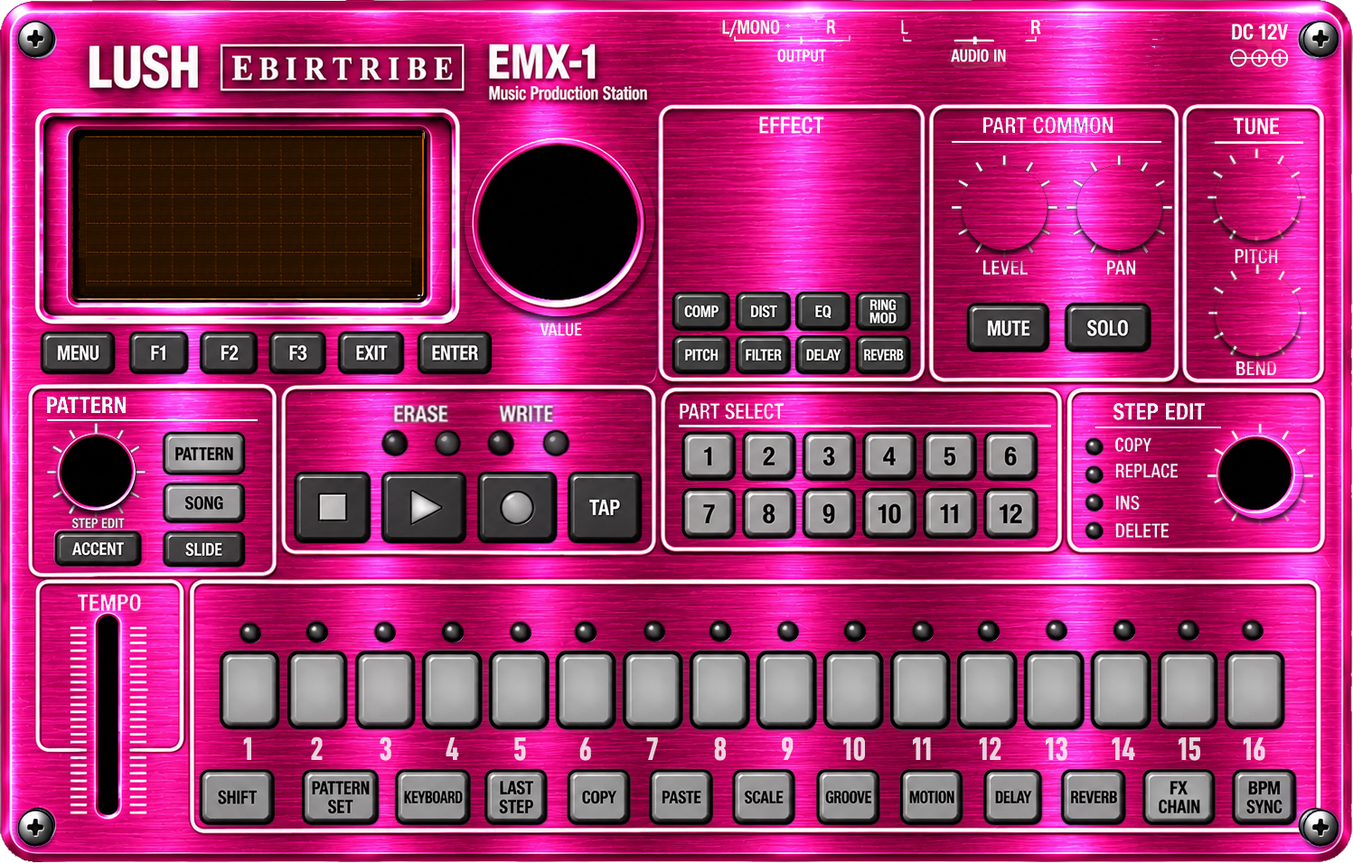
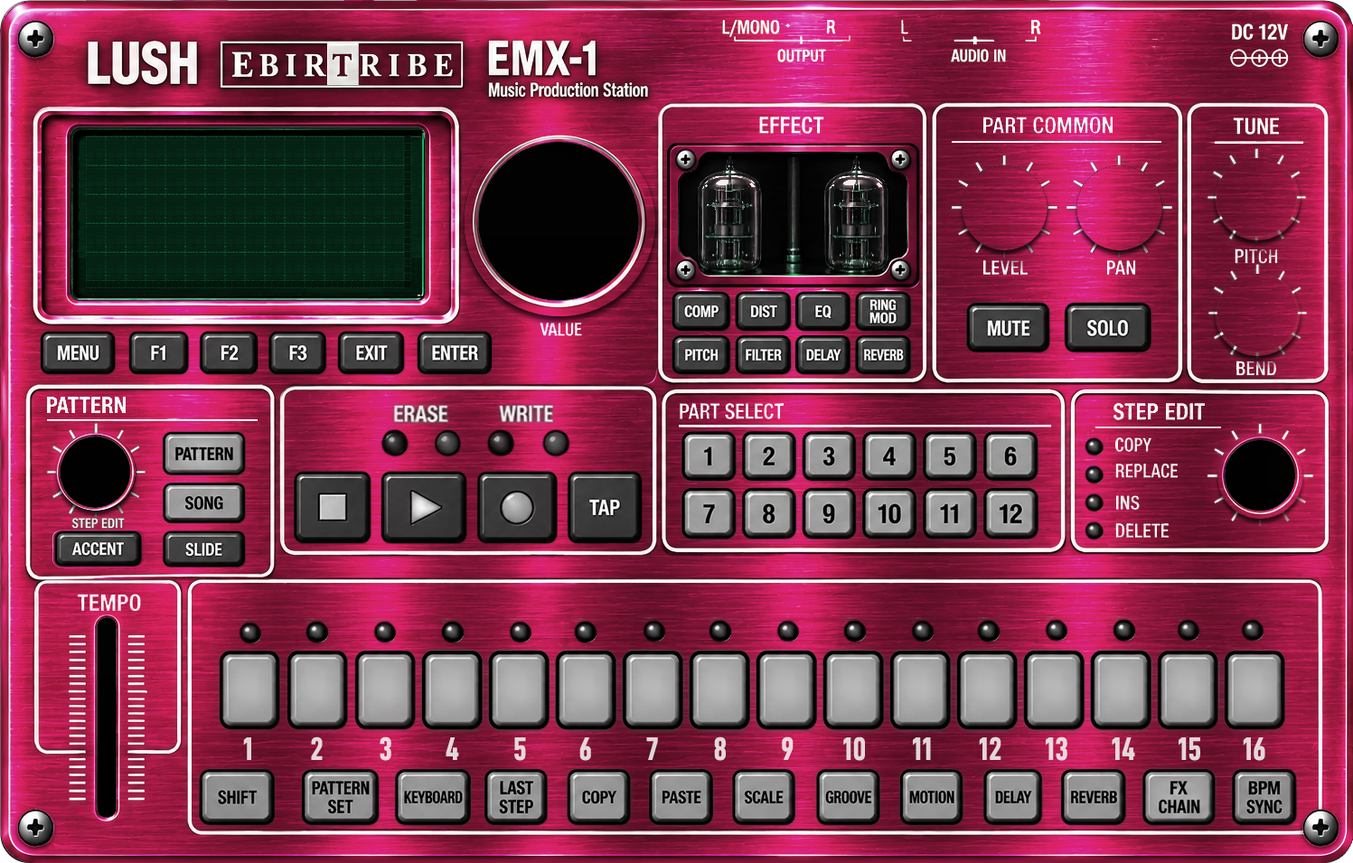
Refresh deck graphics and widget rendering
Update deck and control assets, adjust interface element positions, and add sprite-based button and interpolated knob rendering. Also correct the missing-image error message and update LCD and valve rendering.

diff --git a/interface.py b/interface.py
@@ -27,30 +27,30 @@ class Leds:
     STEP_DELETE         = 0x17    
     def get():
         return {
-            Leds.STEP_01        : Led('STEP_01'     , 264+(74 * 0x00), 687,  32,  32, LedTypes.TYPE_BIG    ),
-            Leds.STEP_02        : Led('STEP_02'     , 264+(74 * 0x01), 687,  32,  32, LedTypes.TYPE_BIG    ),
-            Leds.STEP_03        : Led('STEP_03'     , 264+(74 * 0x02), 687,  32,  32, LedTypes.TYPE_BIG    ),
-            Leds.STEP_04        : Led('STEP_04'     , 264+(74 * 0x03), 687,  32,  32, LedTypes.TYPE_BIG    ),
-            Leds.STEP_05        : Led('STEP_05'     , 264+(74 * 0x04), 687,  32,  32, LedTypes.TYPE_BIG    ),
-            Leds.STEP_06        : Led('STEP_06'     , 264+(74 * 0x05), 687,  32,  32, LedTypes.TYPE_BIG    ),
-            Leds.STEP_07        : Led('STEP_07'     , 264+(74 * 0x06), 687,  32,  32, LedTypes.TYPE_BIG    ),
-            Leds.STEP_08        : Led('STEP_08'     , 264+(74 * 0x07), 687,  32,  32, LedTypes.TYPE_BIG    ),
-            Leds.STEP_09        : Led('STEP_09'     , 264+(74 * 0x08), 687,  32,  32, LedTypes.TYPE_BIG    ),
-            Leds.STEP_10        : Led('STEP_10'     , 264+(74 * 0x09), 687,  32,  32, LedTypes.TYPE_BIG    ),
-            Leds.STEP_11        : Led('STEP_11'     , 264+(74 * 0x0A), 687,  32,  32, LedTypes.TYPE_BIG    ),
-            Leds.STEP_12        : Led('STEP_12'     , 264+(74 * 0x0B), 687,  32,  32, LedTypes.TYPE_BIG    ),
-            Leds.STEP_13        : Led('STEP_13'     , 264+(74 * 0x0C), 687,  32,  32, LedTypes.TYPE_BIG    ),
-            Leds.STEP_14        : Led('STEP_14'     , 264+(74 * 0x0D), 687,  32,  32, LedTypes.TYPE_BIG    ),
-            Leds.STEP_15        : Led('STEP_15'     , 264+(74 * 0x0E), 687,  32,  32, LedTypes.TYPE_BIG    ),
-            Leds.STEP_16        : Led('STEP_16'     , 264+(74 * 0x0F), 687,  32,  32, LedTypes.TYPE_BIG    ),
-            Leds.ERASE_RED      : Led('ERASE_RED'   ,             421, 475,  32,  32, LedTypes.TYPE_HUGE   ),
-            Leds.ERASE_GREEN    : Led('ERASE_GREEN' ,             480, 475,  32,  32, LedTypes.TYPE_HUGE   ),
-            Leds.WRITE_RED      : Led('WRITE_RED'   ,             538, 475,  32,  32, LedTypes.TYPE_HUGE   ),
-            Leds.WRITE_GREEN    : Led('WRITE_GREEN' ,             599, 475,  32,  32, LedTypes.TYPE_HUGE   ),
-            Leds.STEP_COPY      : Led('STEP_COPY'   ,            1200, 484,  24,  24, LedTypes.TYPE_MID    ),
-            Leds.STEP_REPLACE   : Led('STEP_REPLACE',            1200, 515,  24,  24, LedTypes.TYPE_MID    ),
-            Leds.STEP_INSERT    : Led('STEP_INSERT' ,            1200, 545,  24,  24, LedTypes.TYPE_MID    ),
-            Leds.STEP_DELETE    : Led('STEP_DELETE' ,            1200, 577,  24,  24, LedTypes.TYPE_MID    ),
+            Leds.STEP_01        : Led('STEP_01'     , 261+(74 * 0x00), 685,  32,  32, LedTypes.TYPE_BIG    ),
+            Leds.STEP_02        : Led('STEP_02'     , 261+(74 * 0x01), 684,  32,  32, LedTypes.TYPE_BIG    ),
+            Leds.STEP_03        : Led('STEP_03'     , 262+(74 * 0x02), 684,  32,  32, LedTypes.TYPE_BIG    ),
+            Leds.STEP_04        : Led('STEP_04'     , 263+(74 * 0x03), 683,  32,  32, LedTypes.TYPE_BIG    ),
+            Leds.STEP_05        : Led('STEP_05'     , 264+(74 * 0x04), 683,  32,  32, LedTypes.TYPE_BIG    ),
+            Leds.STEP_06        : Led('STEP_06'     , 262+(74 * 0x05), 683,  32,  32, LedTypes.TYPE_BIG    ),
+            Leds.STEP_07        : Led('STEP_07'     , 263+(74 * 0x06), 683,  32,  32, LedTypes.TYPE_BIG    ),
+            Leds.STEP_08        : Led('STEP_08'     , 263+(74 * 0x07), 683,  32,  32, LedTypes.TYPE_BIG    ),
+            Leds.STEP_09        : Led('STEP_09'     , 263+(74 * 0x08), 683,  32,  32, LedTypes.TYPE_BIG    ),
+            Leds.STEP_10        : Led('STEP_10'     , 263+(74 * 0x09), 683,  32,  32, LedTypes.TYPE_BIG    ),
+            Leds.STEP_11        : Led('STEP_11'     , 264+(74 * 0x0A), 683,  32,  32, LedTypes.TYPE_BIG    ),
+            Leds.STEP_12        : Led('STEP_12'     , 264+(74 * 0x0B), 683,  32,  32, LedTypes.TYPE_BIG    ),
+            Leds.STEP_13        : Led('STEP_13'     , 265+(74 * 0x0C), 682,  32,  32, LedTypes.TYPE_BIG    ),
+            Leds.STEP_14        : Led('STEP_14'     , 266+(74 * 0x0D), 682,  32,  32, LedTypes.TYPE_BIG    ),
+            Leds.STEP_15        : Led('STEP_15'     , 264+(74 * 0x0E), 682,  32,  32, LedTypes.TYPE_BIG    ),
+            Leds.STEP_16        : Led('STEP_16'     , 261+(74 * 0x0F), 682,  32,  32, LedTypes.TYPE_BIG    ),
+            Leds.ERASE_RED      : Led('ERASE_RED'   ,             421, 474,  32,  32, LedTypes.TYPE_HUGE   ),
+            Leds.ERASE_GREEN    : Led('ERASE_GREEN' ,             480, 474,  32,  32, LedTypes.TYPE_HUGE   ),
+            Leds.WRITE_RED      : Led('WRITE_RED'   ,             538, 474,  32,  32, LedTypes.TYPE_HUGE   ),
+            Leds.WRITE_GREEN    : Led('WRITE_GREEN' ,             599, 474,  32,  32, LedTypes.TYPE_HUGE   ),
+            Leds.STEP_COPY      : Led('STEP_COPY'   ,            1199, 484,  24,  24, LedTypes.TYPE_MID    ),
+            Leds.STEP_REPLACE   : Led('STEP_REPLACE',            1199, 515,  24,  24, LedTypes.TYPE_MID    ),
+            Leds.STEP_INSERT    : Led('STEP_INSERT' ,            1199, 545,  24,  24, LedTypes.TYPE_MID    ),
+            Leds.STEP_DELETE    : Led('STEP_DELETE' ,            1199, 577,  24,  24, LedTypes.TYPE_MID    ),
         }
 
 class Buttons:
@@ -119,73 +119,74 @@ class Buttons:
     AUX_REVERB          = 0x3E
     AUX_FX_CHAIN        = 0x3F
     AUX_BPM_SYNC        = 0x40
+    
     def get():
         return {
-            Buttons.FUNCTION_MENU    : Button('MENU'        ,  45, 366,  84,  49),
-            Buttons.FUNCTION_F1      : Button('F1'          , 142, 366,  68,  49),
-            Buttons.FUNCTION_F2      : Button('F2'          , 220, 366,  66,  49),
-            Buttons.FUNCTION_F3      : Button('F3'          , 297, 366,  65,  49),
-            Buttons.FUNCTION_EXIT    : Button('EXIT'        , 373, 366,  75,  49),
-            Buttons.FUNCTION_ENTER   : Button('ENTER'       , 461, 366,  84,  49),
-            Buttons.PATTERN_PATTERN  : Button('PATTERN'     , 179, 477,  93,  49),
-            Buttons.PATTERN_SONG     : Button('SONG'        , 179, 534,  93,  45),
-            Buttons.PATTERN_ACCENT   : Button('ACCENT'      ,  60, 587,  98,  41),
-            Buttons.PATTERN_SLIDE    : Button('SLIDE'       , 179, 587,  92,  41),
-            Buttons.TRANSPORT_STOP   : Button('STOP'        , 325, 521,  86,  81),
-            Buttons.TRANSPORT_PLAY   : Button('PLAY'        , 421, 521,  96,  81),
-            Buttons.TRANSPORT_RECORD : Button('RECORD'      , 528, 521,  89,  81),
-            Buttons.TRANSPORT_TAP    : Button('TAP'         , 627, 521,  83,  81),
-            Buttons.FX_COMPRESSOR    : Button('COMPRESSOR'  , 743, 322,  66,  45),
-            Buttons.FX_DISTORTION    : Button('DISTORTION'  , 813, 322,  63,  45),
-            Buttons.FX_EQUALIZER     : Button('EQUALIZER'   , 879, 322,  63,  45),
-            Buttons.FX_RING_MOD      : Button('RING_MOD'    , 945, 322,  63,  45),
-            Buttons.FX_PITCH         : Button('PITCH'       , 743, 370,  66,  45),
-            Buttons.FX_FILTER        : Button('FILTER'      , 813, 370,  63,  45),
-            Buttons.FX_DELAY         : Button('DELAY'       , 879, 370,  63,  45),
-            Buttons.FX_REVERB        : Button('REVERB'      , 945, 370,  63,  45),
-            Buttons.PART_COMMON_MUTE : Button('COMMON_MUTE' ,1069, 334,  93,  57),
-            Buttons.PART_COMMON_SOLO : Button('COMMON_SOLO' ,1177, 334,  98,  57),
-            Buttons.PART_SELECT_01   : Button('SELECT_01'   , 753, 476,  62,  57),
-            Buttons.PART_SELECT_02   : Button('SELECT_02'   , 820, 476,  62,  57),
-            Buttons.PART_SELECT_03   : Button('SELECT_03'   , 887, 476,  61,  57),
-            Buttons.PART_SELECT_04   : Button('SELECT_04'   , 953, 476,  62,  57),
-            Buttons.PART_SELECT_05   : Button('SELECT_05'   ,1020, 476,  62,  57),
-            Buttons.PART_SELECT_06   : Button('SELECT_06'   ,1087, 476,  62,  57),
-            Buttons.PART_SELECT_07   : Button('SELECT_07'   , 753, 539,  62,  58),
-            Buttons.PART_SELECT_08   : Button('SELECT_08'   , 820, 539,  62,  58),
-            Buttons.PART_SELECT_09   : Button('SELECT_09'   , 887, 539,  61,  58),
-            Buttons.PART_SELECT_10   : Button('SELECT_10'   , 953, 539,  62,  58),
-            Buttons.PART_SELECT_11   : Button('SELECT_11'   ,1020, 539,  62,  58),
-            Buttons.PART_SELECT_12   : Button('SELECT_12'   ,1087, 539,  62,  58),
-            Buttons.PART_01          : Button('PART_01'     , 242, 719,  68,  89),
-            Buttons.PART_02          : Button('PART_02'     , 317, 719,  68,  89),
-            Buttons.PART_03          : Button('PART_03'     , 392, 719,  68,  89),
-            Buttons.PART_04          : Button('PART_04'     , 466, 719,  68,  89),
-            Buttons.PART_05          : Button('PART_05'     , 540, 719,  68,  89),
-            Buttons.PART_06          : Button('PART_06'     , 614, 719,  68,  89),
-            Buttons.PART_07          : Button('PART_07'     , 688, 719,  68,  89),
-            Buttons.PART_08          : Button('PART_08'     , 762, 719,  68,  89),
-            Buttons.PART_09          : Button('PART_09'     , 836, 719,  68,  89),
-            Buttons.PART_10          : Button('PART_10'     , 910, 719,  68,  89),
-            Buttons.PART_11          : Button('PART_11'     , 984, 719,  68,  89),
-            Buttons.PART_12          : Button('PART_12'     ,1058, 719,  68,  89),
-            Buttons.PART_13          : Button('PART_13'     ,1132, 719,  68,  89),
-            Buttons.PART_14          : Button('PART_14'     ,1206, 719,  68,  89),
-            Buttons.PART_15          : Button('PART_15'     ,1280, 719,  68,  89),
-            Buttons.PART_16          : Button('PART_16'     ,1354, 719,  68,  89),
-            Buttons.AUX_SHIFT        : Button('SHIFT'       , 220, 850,  85,  64),
-            Buttons.AUX_PATTERN_SET  : Button('PATTERN_SET' , 333, 850,  87,  64),
-            Buttons.AUX_KEYBOARD     : Button('KEYBOARD'    , 436, 850,  86,  64),
-            Buttons.AUX_LAST_STEP    : Button('LAST_STEP'   , 535, 850,  72,  64),
-            Buttons.AUX_COPY         : Button('COPY'        , 626, 850,  72,  64),
-            Buttons.AUX_PASTE        : Button('PASTE'       , 717, 850,  73,  64),
-            Buttons.AUX_SCALE        : Button('SCALE'       , 809, 850,  72,  64),
-            Buttons.AUX_GROOVE       : Button('GROOVE'      , 902, 850,  73,  64),
-            Buttons.AUX_MOTION       : Button('MOTION'      , 995, 850,  72,  64),
-            Buttons.AUX_DELAY        : Button('DELAY'       ,1087, 850,  67,  64),
-            Buttons.AUX_REVERB       : Button('REVERB'      ,1173, 850,  74,  64),
-            Buttons.AUX_FX_CHAIN     : Button('FX_CHAIN'    ,1263, 850,  83,  64),
-            Buttons.AUX_BPM_SYNC     : Button('BPM_SYNC'    ,1362, 850,  74,  64),
+            Buttons.FUNCTION_MENU    : Button('MENU'        ,  44, 367,  84,  49, (   0,   0), 0, (  88,  56)),
+            Buttons.FUNCTION_F1      : Button('F1'          , 142, 367,  68,  49, ( 256,   0), 0, (  72,  56)),
+            Buttons.FUNCTION_F2      : Button('F2'          , 220, 367,  66,  49, ( 328,   0), 0, (  72,  56)),
+            Buttons.FUNCTION_F3      : Button('F3'          , 297, 367,  65,  49, ( 400,   0), 0, (  64,  56)),
+            Buttons.FUNCTION_ENTER   : Button('ENTER'       , 461, 367,  84,  49, (  88,   0), 0, (  88,  56)),
+            Buttons.FUNCTION_EXIT    : Button('EXIT'        , 374, 367,  75,  49, ( 176,   0), 0, (  80,  56)),
+            Buttons.PATTERN_PATTERN  : Button('PATTERN'     , 179, 478,  93,  49, (   0, 120), 0, (  96,  56)),
+            Buttons.PATTERN_SONG     : Button('SONG'        , 179, 535,  93,  45, (  96, 120), 0, (  96,  56)),
+            Buttons.PATTERN_ACCENT   : Button('ACCENT'      ,  60, 587,  98,  41, (  96, 176), 0, (  96,  48)),
+            Buttons.PATTERN_SLIDE    : Button('SLIDE'       , 179, 588,  92,  41, (   0, 176), 0, (  96,  48)),
+            Buttons.TRANSPORT_STOP   : Button('STOP'        , 325, 522,  86,  81, ( 896,   0), 0, (  88,  88)),
+            Buttons.TRANSPORT_PLAY   : Button('PLAY'        , 421, 522,  96,  81, ( 984,   0), 0, (  96,  88)),
+            Buttons.TRANSPORT_RECORD : Button('RECORD'      , 528, 522,  89,  81, ( 808,   0), 0, (  88,  88)),
+            Buttons.TRANSPORT_TAP    : Button('TAP'         , 628, 522,  83,  81, ( 720,   0), 0, (  88,  88)),
+            Buttons.FX_COMPRESSOR    : Button('COMPRESSOR'  , 743, 322,  66,  45, ( 192,  56), 0, (  64,  48)),
+            Buttons.FX_DISTORTION    : Button('DISTORTION'  , 814, 322,  63,  45, ( 256,  56), 0, (  64,  48)),
+            Buttons.FX_EQUALIZER     : Button('EQUALIZER'   , 880, 322,  63,  45, ( 192, 152), 0, (  64,  48)),
+            Buttons.FX_RING_MOD      : Button('RING_MOD'    , 947, 322,  63,  45, ( 256, 152), 0, (  64,  48)),
+            Buttons.FX_PITCH         : Button('PITCH'       , 743, 370,  66,  45, ( 192, 104), 0, (  64,  48)),
+            Buttons.FX_FILTER        : Button('FILTER'      , 814, 370,  63,  45, ( 256, 104), 0, (  64,  48)),
+            Buttons.FX_DELAY         : Button('DELAY'       , 880, 370,  63,  45, ( 192, 200), 0, (  64,  48)),
+            Buttons.FX_REVERB        : Button('REVERB'      , 947, 370,  63,  45, ( 256, 200), 0, (  64,  48)),
+            Buttons.PART_COMMON_MUTE : Button('COMMON_MUTE' ,1069, 334,  93,  57, (   0,  56), 0, (  96,  64)),
+            Buttons.PART_COMMON_SOLO : Button('COMMON_SOLO' ,1177, 334,  98,  57, (  96,  56), 0, (  96,  64)),
+            Buttons.PART_SELECT_01   : Button('SELECT_01'   , 753, 476,  62,  57, ( 464,   0), 0, (  64,  56)),
+            Buttons.PART_SELECT_02   : Button('SELECT_02'   , 820, 476,  62,  57, ( 528,   0), 0, (  64,  56)),
+            Buttons.PART_SELECT_03   : Button('SELECT_03'   , 888, 476,  61,  57, ( 592,   0), 0, (  64,  56)),
+            Buttons.PART_SELECT_04   : Button('SELECT_04'   , 953, 476,  62,  57, ( 656,   0), 0, (  64,  56)),
+            Buttons.PART_SELECT_05   : Button('SELECT_05'   ,1020, 476,  62,  57, ( 464,  64), 0, (  64,  56)),
+            Buttons.PART_SELECT_06   : Button('SELECT_06'   ,1087, 476,  62,  57, ( 528,  64), 0, (  64,  56)),
+            Buttons.PART_SELECT_07   : Button('SELECT_07'   , 753, 538,  62,  58, ( 592,  64), 0, (  64,  56)),
+            Buttons.PART_SELECT_08   : Button('SELECT_08'   , 820, 538,  62,  58, ( 656,  64), 0, (  64,  56)),
+            Buttons.PART_SELECT_09   : Button('SELECT_09'   , 888, 538,  61,  58, ( 464, 128), 0, (  64,  56)),
+            Buttons.PART_SELECT_10   : Button('SELECT_10'   , 953, 538,  62,  58, ( 528, 128), 0, (  64,  56)),
+            Buttons.PART_SELECT_11   : Button('SELECT_11'   ,1020, 538,  62,  58, ( 592, 128), 0, (  64,  56)),
+            Buttons.PART_SELECT_12   : Button('SELECT_12'   ,1087, 538,  62,  58, ( 656, 128), 0, (  64,  56)),
+            Buttons.PART_01          : Button('PART_01'     , 242, 720,  68,  89, ( 720,  88), 0, (  72,  96)),
+            Buttons.PART_02          : Button('PART_02'     , 317, 720,  68,  89, ( 720,  88), 0, (  72,  96)),
+            Buttons.PART_03          : Button('PART_03'     , 392, 720,  68,  89, ( 720,  88), 0, (  72,  96)),
+            Buttons.PART_04          : Button('PART_04'     , 466, 720,  68,  89, ( 720,  88), 0, (  72,  96)),
+            Buttons.PART_05          : Button('PART_05'     , 540, 720,  68,  89, ( 720,  88), 0, (  72,  96)),
+            Buttons.PART_06          : Button('PART_06'     , 614, 720,  68,  89, ( 720,  88), 0, (  72,  96)),
+            Buttons.PART_07          : Button('PART_07'     , 688, 720,  68,  89, ( 720,  88), 0, (  72,  96)),
+            Buttons.PART_08          : Button('PART_08'     , 762, 720,  68,  89, ( 720,  88), 0, (  72,  96)),
+            Buttons.PART_09          : Button('PART_09'     , 836, 720,  68,  89, ( 720,  88), 0, (  72,  96)),
+            Buttons.PART_10          : Button('PART_10'     , 910, 720,  68,  89, ( 720,  88), 0, (  72,  96)),
+            Buttons.PART_11          : Button('PART_11'     , 984, 720,  68,  89, ( 720,  88), 0, (  72,  96)),
+            Buttons.PART_12          : Button('PART_12'     ,1058, 720,  68,  89, ( 720,  88), 0, (  72,  96)),
+            Buttons.PART_13          : Button('PART_13'     ,1132, 720,  68,  89, ( 720,  88), 0, (  72,  96)),
+            Buttons.PART_14          : Button('PART_14'     ,1206, 720,  68,  89, ( 720,  88), 0, (  72,  96)),
+            Buttons.PART_15          : Button('PART_15'     ,1280, 720,  68,  89, ( 720,  88), 0, (  72,  96)),
+            Buttons.PART_16          : Button('PART_16'     ,1354, 720,  68,  89, ( 720,  88), 0, (  72,  96)),
+            Buttons.AUX_SHIFT        : Button('SHIFT'       , 221, 851,  85,  64, ( 792,  88), 0, (  88,  72)),
+            Buttons.AUX_PATTERN_SET  : Button('PATTERN_SET' , 334, 851,  87,  64, ( 968,  88), 0, (  88,  72)),
+            Buttons.AUX_KEYBOARD     : Button('KEYBOARD'    , 436, 851,  86,  64, ( 880,  88), 0, (  88,  72)),
+            Buttons.AUX_LAST_STEP    : Button('LAST_STEP'   , 535, 851,  72,  64, ( 720, 184), 0, (  72,  72)),
+            Buttons.AUX_COPY         : Button('COPY'        , 627, 851,  72,  64, ( 792, 184), 0, (  72,  72)),
+            Buttons.AUX_PASTE        : Button('PASTE'       , 717, 850,  73,  64, ( 392, 184), 0, (  72,  64)),
+            Buttons.AUX_SCALE        : Button('SCALE'       , 809, 850,  72,  64, ( 320,  56), 0, (  72,  64)),
+            Buttons.AUX_GROOVE       : Button('GROOVE'      , 902, 850,  73,  64, ( 392,  56), 0, (  72,  64)),
+            Buttons.AUX_MOTION       : Button('MOTION'      , 994, 850,  72,  64, ( 320, 120), 0, (  72,  64)),
+            Buttons.AUX_DELAY        : Button('DELAY'       ,1087, 850,  67,  64, ( 464, 192), 0, (  64,  64)),
+            Buttons.AUX_REVERB       : Button('REVERB'      ,1173, 850,  74,  64, ( 392, 120), 0, (  72,  64)),
+            Buttons.AUX_FX_CHAIN     : Button('FX_CHAIN'    ,1263, 850,  83,  64, ( 528, 192), 0, (  80,  64)),
+            Buttons.AUX_BPM_SYNC     : Button('BPM_SYNC'    ,1362, 850,  74,  64, ( 320, 184), 0, (  72,  64)),
         }
 
 class Knobs:
@@ -231,7 +232,7 @@ class Lcds:
     MAIN                = 0x00
     def get():
         return {
-            Lcds.MAIN                   : Lcd('MAIN'      ,  95, 151, 360, 160),
+            Lcds.MAIN                   : Lcd('MAIN'      ,  95, 151, 360, 168),
         }
 
 class CallBacks:    

diff --git a/widget.py b/widget.py
@@ -261,16 +261,104 @@ class Knob(Widget):
     
     def __init__(self, name="UnnamedKnob", x=0, y=0, width=96, height=96, min=0, value=0, max=255):
         super().__init__(Widget.KNOB, name, x, y, width, height, min, value, max)
+        self.knob = pygame.Rect(self.x, self.y, 96, 96)
         
-    def render( self, app ):
-        pygame.draw.circle( app.screen, (255,255,0), (self.rect[0]+(self.rect[2]//2),self.rect[1]+(self.rect[3]//2)), self.rect[2]/2, 2)
-        width, height = app.resources.knob.get_size()
-        width //= 24        
-        factor = self.value / self.max
-        frame  = factor * 24
-        app.screen.blit( app.resources.knob, (self.knob.x, self.knob.y), area=(frame*96, 0, width, height))
-        super().render( app )
+        # Rotado 90° adicionales en sentido horario (112.5° + 90° = 202.5°)
+        # Mantiene el arco de 315° de recorrido útil
+        self.ANGULO_MIN = 202.5  
+        self.ANGULO_MAX = 517.5 
+        self.update()
+        
+    def handle(self, event, app):
+        if self.mouseDown(event):        
+            if self.touches(event):
+                self.drag = True
+                self.last = event.pos[1]  # Guardamos solo el componente Y (entero)
+                return True
+        elif self.mouseUp(event): 
+            self.drag = False
+        elif self.mouseMove(event) and self.drag:
+            y_actual    = event.pos[1]   # Extraemos solo el componente Y (entero)
+            delta_y     = y_actual - self.last
+            self.last   = y_actual            
+            
+            factor      = 0.1 if app.pygame.key.get_mods() & app.pygame.KMOD_SHIFT else 1.0
+            pixels_sensibilidad = 200.0 
+            units       = (self.max - self.min) / pixels_sensibilidad
+            
+            self.value -= delta_y * units * factor
+            if self.value < self.min: self.value = self.min
+            if self.value > self.max: self.value = self.max
+            self.update()
+            return True
+        return False
+        
+    def update(self):
+        self.knob.x = self.x
+        self.knob.y = self.y
 
+    def render(self, app):
+        # 1. Mapear el valor actual al arco físico del potenciómetro
+        rango_valores = self.max - self.min
+        factor = (self.value - self.min) / rango_valores if rango_valores != 0 else 0
+        angulo_físico = self.ANGULO_MIN + factor * (self.ANGULO_MAX - self.ANGULO_MIN)
+        
+        # Normalizamos a un rango circular de 0 a 360 grados
+        angulo_normalizado = angulo_físico % 360.0
+        grados_por_frame = 15.0  # (360 / 24)
+        
+        # 2. Calcular índices de frames y ponderación para el cross-fade
+        posicion_exacta_frame = angulo_normalizado / grados_por_frame
+        indice_frame_actual = int(posicion_exacta_frame) % 24
+        indice_frame_siguiente = (indice_frame_actual + 1) % 24
+        
+        # Fracción decimal que indica qué tan cerca estamos del siguiente frame (0.0 a 1.0)
+        fraccion_siguiente = posicion_exacta_frame - int(posicion_exacta_frame)
+        
+        # Opacidad del frame que entra (0 a 255)
+        alpha_siguiente = int(fraccion_siguiente * 255)
+        
+        # La rotación fina por software
+        rotacion_fina = angulo_normalizado % grados_por_frame
+        
+        # 3. Extraer y procesar los dos sub-sprites independientes
+        # --- FRAME ACTUAL (Base 100% Opaca) ---
+        surface_actual = pygame.Surface((96, 96), pygame.SRCALPHA)
+        surface_actual.blit(app.resources.knob, (0, 0), area=(indice_frame_actual * 96, 0, 96, 96))
+        # Mantenemos este frame al máximo de opacidad para que sirva de base sólida
+        
+        # --- FRAME SIGUIENTE + PRE-ROTACIÓN (Capas con Alpha Dinámico) ---
+        raw_siguiente = pygame.Surface((96, 96), pygame.SRCALPHA)
+        raw_siguiente.blit(app.resources.knob, (0, 0), area=(indice_frame_siguiente * 96, 0, 96, 96))
+        
+        # Pre-rotamos el frame siguiente 15° hacia atrás para alinearlo algebraicamente
+        surface_siguiente_rotada = pygame.transform.rotate(raw_siguiente, grados_por_frame)
+        
+        surface_siguiente = pygame.Surface((96, 96), pygame.SRCALPHA)
+        rect_siguiente = surface_siguiente_rotada.get_rect()
+        rect_siguiente.center = (48, 48)
+        surface_siguiente.blit(surface_siguiente_rotada, rect_siguiente.topleft)
+        # Aplicamos la transparencia únicamente al cuadro que se va superponiendo
+        surface_siguiente.set_alpha(alpha_siguiente)
+        
+        # 4. Combinar ambos sub-sprites manteniendo la solidez del pixel base
+        combined_surface = pygame.Surface((96, 96), pygame.SRCALPHA)
+        combined_surface.blit(surface_actual, (0, 0))     # Base sólida
+        combined_surface.blit(surface_siguiente, (0, 0))  # Capa superior interpolada
+        
+        # 5. Aplicar la rotación fina definitiva sobre el resultado combinado opaco
+        rotated_surface = pygame.transform.rotate(combined_surface, -rotacion_fina)
+        new_rect = rotated_surface.get_rect()
+        
+        # Centrar dinámicamente en pantalla para evitar oscilaciones
+        new_rect.center = (self.x + 48, self.y + 48)
+        
+        # 6. Dibujar en la pantalla
+        app.screen.blit(rotated_surface, new_rect.topleft)
+        
+        # 7. Renderizar textos superiores/inferiores de la clase base
+        super().render(app)
+    
 class JogWheel(Widget):
     def __init__(self, name="UnnamedJogWheel", x=0, y=0, width=224, height=224, min=0, value=0, max=255):
         super().__init__(Widget.JOG_WHEEL, name, x, y, width, height, min, value, max)
@@ -283,7 +371,6 @@ class JogWheel(Widget):
         factor = self.value / self.max
         frame  = factor * 24
         app.screen.blit( app.resources.jog_wheel, (self.x, self.y))
-
 
 class Slider(Widget):
     def __init__(self, name="UnnamedSlider", x=0, y=0, width=200, height=20, min=0, value=0, max=255):
@@ -322,7 +409,6 @@ class Slider(Widget):
     def render(self, app):
         super().render(app)
         app.screen.blit( app.resources.slider, (self.knob.x, self.knob.y-6))
-                     
 
 class Fader(Widget):
     def __init__(self, name="UnnamedFader", x=0, y=0, width=32, height=200, min=0, value=0, max=255):
@@ -367,12 +453,22 @@ class Fader(Widget):
         app.screen.blit( app.resources.fader, (self.knob.x, self.knob.y))  
 
 class Button(Widget):
-    def __init__(self, name="UnnamedButton", x=0, y=0, width=128, height=56, min=0, value=0, max=1):
-        super().__init__(Widget.BUTTON, name, x, y, width, height, min, value, max)
+    def __init__(self, name="UnnamedButton", x=0, y=0, width=128, height=56, gfx_pos=(0,0), value=0, gfx_size=(96,64)):
+        super().__init__(Widget.BUTTON, name, x, y, width, height, 0, value, 1)
+        self.gfx_pos    = gfx_pos
+        self.gfx_size   = gfx_size
+        self.knob       = None
+        self.middle     = (self.x+(self.rect.width//2), self.y+(self.rect.height//2))
+        self.position   = (self.middle[0] - (self.gfx_size[0]//2),self.middle[1] - (self.gfx_size[1]//2))
         
     def render(self, app):
-        # super().render(app)
-        pygame.draw.rect( app.screen, (255,255,0), self.rect, 1, border_radius=10)
+        # super().render(app)        
+        # pygame.draw.rect( app.screen, (255,255,0), self.rect, 1, border_radius=10)
+        if random.randint(0,10)==7:
+            self.value = True if random.randint(0,10)==7 else False
+        if self.value: 
+            app.screen.blit( app.resources.buttons, self.position, area=(*self.gfx_pos, *self.gfx_size))
+
 
 class Pad(Widget):
     def __init__(self, name="UnnamedPad", x=0, y=0, width=96, height=96, min=0, value=0, max=1):
@@ -399,14 +495,15 @@ class Led(Widget):
     def render( self, app ):
         #super().render( app )
         self.update()
-        pygame.draw.circle( app.screen, (255,255,0), (self.rect[0]+(self.rect[2]//2),self.rect[1]+(self.rect[3]//2)), self.rect[2]/2, 2)
+        #pygame.draw.circle( app.screen, (255,255,0), (self.rect[0]+(self.rect[2]//2),self.rect[1]+(self.rect[3]//2)), self.rect[2]/2, 2)
         geometry = LedTypes.geometry[ (self.kind * 4)+self.value ]
         app.screen.blit( app.resources.leds, (self.x, self.y), area=geometry)
 
 class Valve(Widget):
     def __init__(self, name="UnnamedValve", x=0, y=0, width=128, height=128, min=0.0, value=0.0, max=1.0):
         super().__init__(Widget.VALVE, name, x, y, width, height, min, float(value), max)
-        self.interactive = False
+        self.interactive    = False
+        self.knob           = None
         
     def render(self, app):
         super().render(app)
@@ -416,7 +513,7 @@ class Valve(Widget):
         if random.randint(0,32)==7:
             self.value = 1.0
         app.resources.valve.set_alpha(int(self.value*256))
-        app.screen.blit( app.resources.valve, (self.knob.x, self.knob.y), area=(0, 0, width/2, height))
+        app.screen.blit( app.resources.valve, (self.x, self.y), area=(0, 0, width, height))
 
 class Lcd(Widget):
     def __init__(self, name="UnnamedLcd", x=0, y=0, width=96, height=96, min=0, value=0, max=0):

diff --git a/filesys.py b/filesys.py
@@ -304,7 +304,7 @@ def obtener_nombre_fichero(titulo="Seleccionar archivo", tipos_archivo=None):
 def loadImage(app, ruta_relativa):
     file = path(ruta_relativa)
     if not file or not os.path.exists(file): 
-        print(f"[CRITICAL] Required image resource not found: {e}")
+        print(f"[CRITICAL] Required image resource not found: {file}")
         exit(1)        
     try:
         return app.pygame.image.load(file).convert_alpha()            
